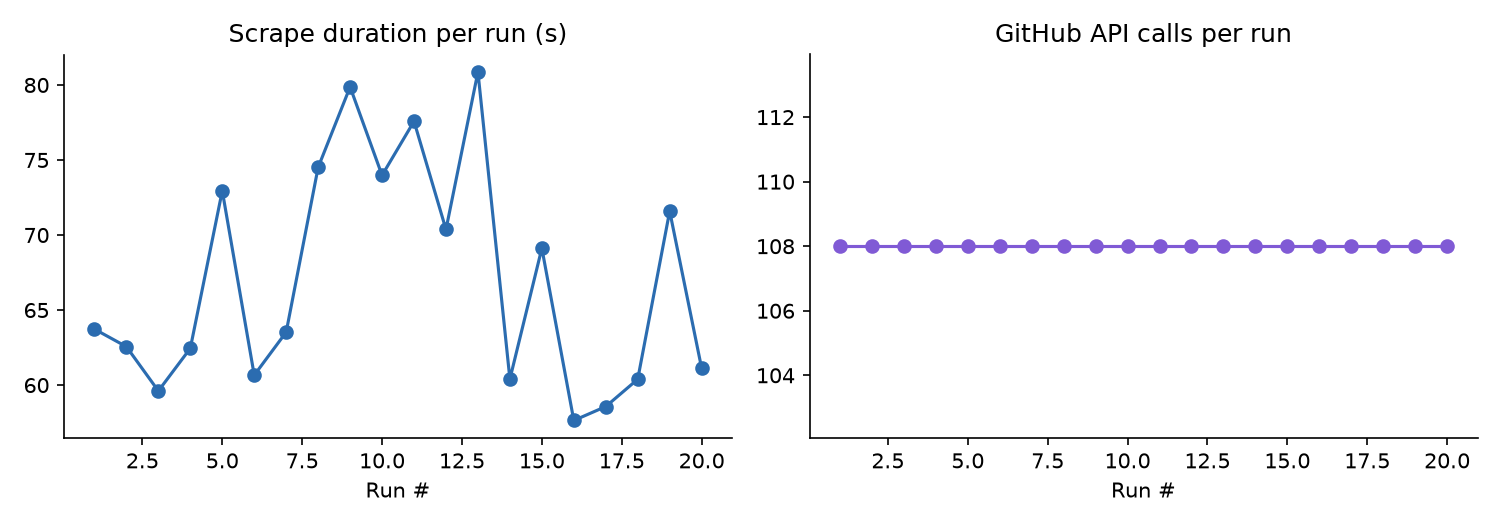
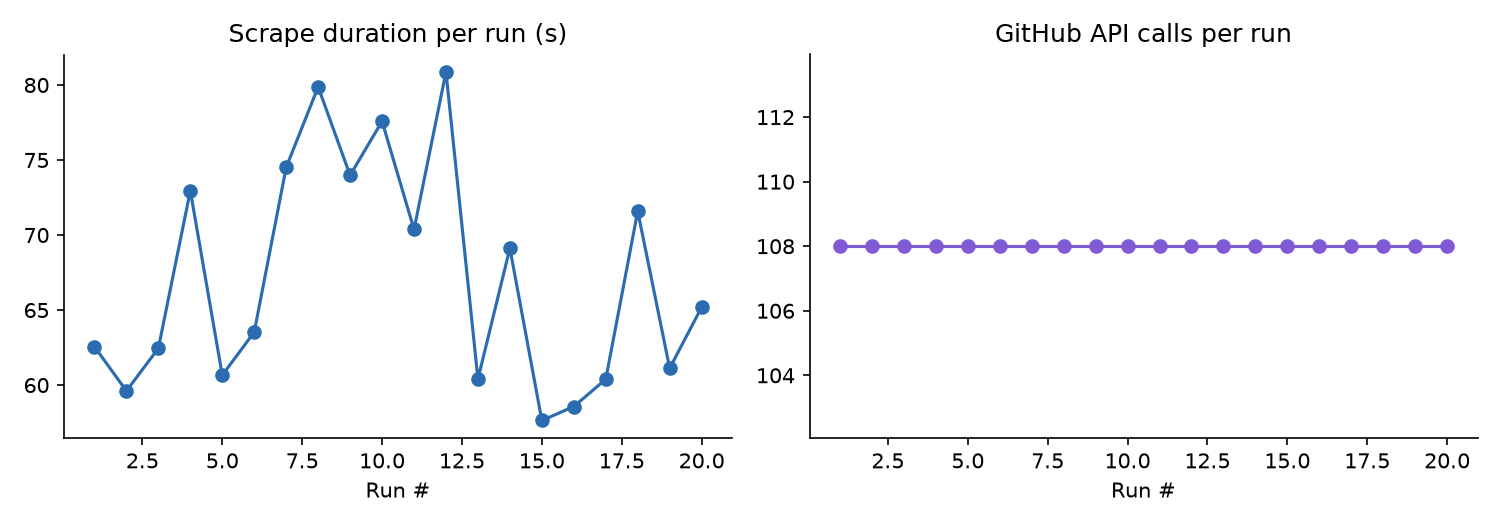
Weekly issue tracker refresh

Changed region(s): [[0.184, 0.1219, 0.4907, 0.8229], [0.0613, 0.3352, 0.2147, 0.7619]]

diff --git a/README.md b/README.md
@@ -81,7 +81,7 @@ See [CONTRIBUTING.md](CONTRIBUTING.md) for the full contributor workflow — inc
 
 <!-- TRACKER:START -->
 
-_Last updated: 2026-08-05 04:28 UTC_
+_Last updated: 2026-08-05 07:12 UTC_
 
 _Tracking **18** upstream repos, **381** relevant open issues._
 
@@ -289,7 +289,7 @@ _Tracking **18** upstream repos, **381** relevant open issues._
 
 <!-- METRICS:START -->
 
-_Last run: 2026-08-05 04:27 UTC, took **61.1s**, **108** GitHub API calls, **4892/5000** rate limit remaining._
+_Last run: 2026-08-05 07:11 UTC, took **65.2s**, **108** GitHub API calls, **4892/5000** rate limit remaining._
 
 ![Scrape metrics trend](assets/metrics_trend.png)
 
